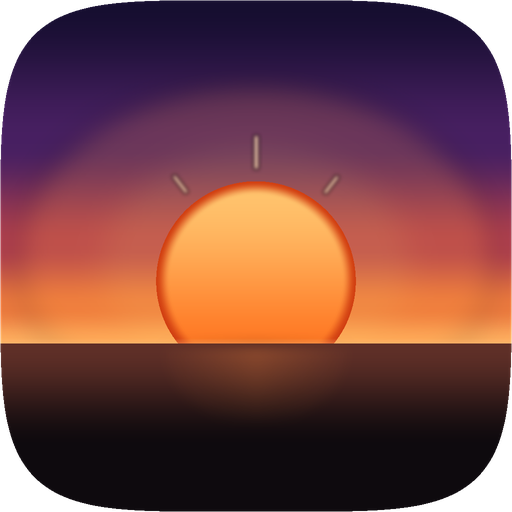
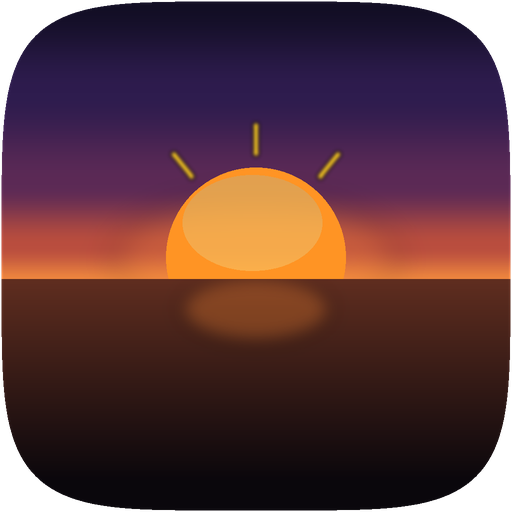
Wklej prawdziwy panel menu i podnieś słońce ikony.
Panel menu to wycinek z uruchomionej apki na tapecie Study of Space. Promienie ikony są żółte, a linia morza zasłania większą część tarczy.

diff --git a/index.html b/index.html
@@ -9,15 +9,15 @@
 <meta name="author" content="Dawid Woźniak">
 <link rel="canonical" href="https://awake.dawidw.pl/">
 <meta name="theme-color" content="#000000">
-<link rel="icon" href="favicon.ico?v=3" sizes="any">
-<link rel="icon" href="favicon.png?v=3" type="image/png" sizes="32x32">
-<link rel="apple-touch-icon" href="apple-touch-icon.png?v=3">
+<link rel="icon" href="favicon.ico?v=5" sizes="any">
+<link rel="icon" href="favicon.png?v=5" type="image/png" sizes="32x32">
+<link rel="apple-touch-icon" href="apple-touch-icon.png?v=5">
 <meta property="og:type" content="website">
 <meta property="og:site_name" content="Awake">
 <meta property="og:title" content="Awake: keep your Mac awake | menu bar app for macOS">
 <meta property="og:description" content="Awake is a macOS menu bar app that keeps your Mac awake. Leave it on, turn it off, or set a sunset timer. Start at login, an optional menu bar countdown, and appearance themes with accent colors.">
 <meta property="og:url" content="https://awake.dawidw.pl/">
-<meta property="og:image" content="https://awake.dawidw.pl/og-image.png?v=3">
+<meta property="og:image" content="https://awake.dawidw.pl/og-image.png?v=5">
 <meta property="og:image:width" content="2400">
 <meta property="og:image:height" content="1260">
 <meta property="og:image:alt" content="Awake for Mac. A sun held on the horizon, the icon of a menu bar app that keeps your Mac awake.">
@@ -25,9 +25,9 @@
 <meta name="twitter:creator" content="@Dawidwu">
 <meta name="twitter:title" content="Awake: keep your Mac awake | menu bar app for macOS">
 <meta name="twitter:description" content="Awake is a macOS menu bar app that keeps your Mac awake. Leave it on, turn it off, or set a sunset timer. Start at login, an optional menu bar countdown, and appearance themes with accent colors.">
-<meta name="twitter:image" content="https://awake.dawidw.pl/og-image.png?v=3">
+<meta name="twitter:image" content="https://awake.dawidw.pl/og-image.png?v=5">
 <meta name="twitter:image:alt" content="Awake for Mac. A sun held on the horizon, the icon of a menu bar app that keeps your Mac awake.">
-<script type="application/ld+json">{"@context": "https://schema.org", "@type": "SoftwareApplication", "name": "Awake", "description": "Awake is a macOS menu bar app that keeps your Mac awake. Leave it on, turn it off, or set a sunset timer. Start at login, an optional menu bar countdown, and appearance themes with accent colors. macOS 13 or later. One-time purchase, no subscription.", "url": "https://awake.dawidw.pl/", "image": "https://awake.dawidw.pl/og-image.png?v=3", "operatingSystem": "macOS", "applicationCategory": "UtilitiesApplication", "author": {"@type": "Person", "name": "Dawid Woźniak", "url": "https://dawidw.pl"}}</script>
+<script type="application/ld+json">{"@context": "https://schema.org", "@type": "SoftwareApplication", "name": "Awake", "description": "Awake is a macOS menu bar app that keeps your Mac awake. Leave it on, turn it off, or set a sunset timer. Start at login, an optional menu bar countdown, and appearance themes with accent colors. macOS 13 or later. One-time purchase, no subscription.", "url": "https://awake.dawidw.pl/", "image": "https://awake.dawidw.pl/og-image.png?v=5", "operatingSystem": "macOS", "applicationCategory": "UtilitiesApplication", "author": {"@type": "Person", "name": "Dawid Woźniak", "url": "https://dawidw.pl"}}</script>
 <style>
   :root { --bg:#000; --fg:#f5f5f7; --muted:#8e8e93; --line:#1c1c1e; --card:#0b0b0c; --accent:#ff9f0a; }
   * { box-sizing:border-box; margin:0; padding:0; }
@@ -116,12 +116,12 @@
 <body>
   <div class="wrap">
     <nav>
-      <a class="brand" href="https://awake.dawidw.pl/"><img src="icon.png?v=3" width="26" height="26" alt="">Awake</a>
+      <a class="brand" href="https://awake.dawidw.pl/"><img src="icon.png?v=5" width="26" height="26" alt="">Awake</a>
       <span class="buy">Buy</span>
     </nav>
 
     <header class="hero">
-      <img class="mark" src="icon.png?v=3" width="84" height="84" alt="">
+      <img class="mark" src="icon.png?v=5" width="84" height="84" alt="">
       <h1>Awake</h1>
       <p class="tagline">Keep your Mac awake when you need it</p>
       <p class="lead">Leave it on, or let a sunset timer end the session. <b>Small, native, and calm.</b></p>
@@ -130,7 +130,7 @@
     </header>
 
     <figure class="demo">
-      <img class="shot" src="assets/menu-hero.png?v=4" alt="The Awake menu open on a Mac desktop: On, Off, Sunset, Start at login, Countdown in menu, Appearance, and Quit." width="2000" height="1125">
+      <img class="shot" src="assets/menu-hero.png?v=5" alt="The Awake menu open on a Mac desktop: On, Off, Sunset, Start at login, Countdown in menu, Appearance, and Quit." width="2000" height="1125">
       <figcaption>Open from the menu bar.</figcaption>
       <p class="credit">Wallpaper from <a href="https://studyofspace.gallery" target="_blank" rel="noopener">Study of Space</a> app.</p>
     </figure>

diff --git a/privacy.html b/privacy.html
@@ -8,9 +8,9 @@
 <meta name="author" content="Dawid Woźniak">
 <link rel="canonical" href="https://awake.dawidw.pl/privacy.html">
 <meta name="theme-color" content="#000000">
-<link rel="icon" href="favicon.ico?v=3" sizes="any">
-<link rel="icon" href="favicon.png?v=3" type="image/png" sizes="32x32">
-<link rel="apple-touch-icon" href="apple-touch-icon.png?v=3">
+<link rel="icon" href="favicon.ico?v=5" sizes="any">
+<link rel="icon" href="favicon.png?v=5" type="image/png" sizes="32x32">
+<link rel="apple-touch-icon" href="apple-touch-icon.png?v=5">
 <style>
   :root { --bg:#000; --fg:#f5f5f7; --muted:#8e8e93; --line:#1c1c1e; --card:#0b0b0c; --accent:#ff9f0a; }
   * { box-sizing:border-box; margin:0; padding:0; }
@@ -70,7 +70,7 @@
 </head>
 <body>
 <nav class="wrap">
-  <a class="brand" href="index.html"><img src="icon.png?v=3" width="26" height="26" alt="">Awake</a>
+  <a class="brand" href="index.html"><img src="icon.png?v=5" width="26" height="26" alt="">Awake</a>
   <span class="buy">Buy</span>
 </nav>
 <main class="legal wrap">

diff --git a/terms.html b/terms.html
@@ -8,9 +8,9 @@
 <meta name="author" content="Dawid Woźniak">
 <link rel="canonical" href="https://awake.dawidw.pl/terms.html">
 <meta name="theme-color" content="#000000">
-<link rel="icon" href="favicon.ico?v=3" sizes="any">
-<link rel="icon" href="favicon.png?v=3" type="image/png" sizes="32x32">
-<link rel="apple-touch-icon" href="apple-touch-icon.png?v=3">
+<link rel="icon" href="favicon.ico?v=5" sizes="any">
+<link rel="icon" href="favicon.png?v=5" type="image/png" sizes="32x32">
+<link rel="apple-touch-icon" href="apple-touch-icon.png?v=5">
 <style>
   :root { --bg:#000; --fg:#f5f5f7; --muted:#8e8e93; --line:#1c1c1e; --card:#0b0b0c; --accent:#ff9f0a; }
   * { box-sizing:border-box; margin:0; padding:0; }
@@ -70,7 +70,7 @@
 </head>
 <body>
 <nav class="wrap">
-  <a class="brand" href="index.html"><img src="icon.png?v=3" width="26" height="26" alt="">Awake</a>
+  <a class="brand" href="index.html"><img src="icon.png?v=5" width="26" height="26" alt="">Awake</a>
   <span class="buy">Buy</span>
 </nav>
 <main class="legal wrap">
